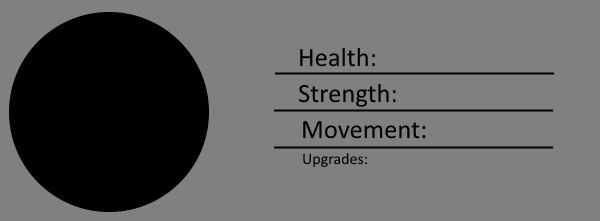
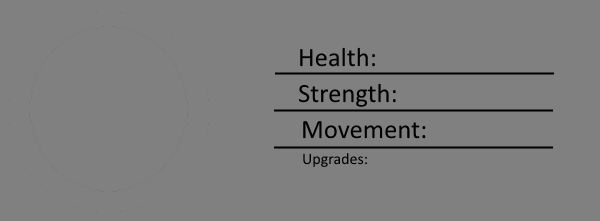
more UI stuff

Changed region(s): [[0.0, 0.0543, 0.36, 0.9774]]

diff --git a/FinalProjectTest/src/finalProject/UserInt.java b/FinalProjectTest/src/finalProject/UserInt.java
@@ -8,8 +8,6 @@ package finalProject;
 import java.awt.Color;
 import java.awt.Dimension;
 import java.awt.Font;
-import java.awt.Point;
-import java.awt.Scrollbar;
 import java.awt.event.ActionEvent;
 import java.awt.event.ActionListener;
 import java.io.FileNotFoundException;
@@ -20,12 +18,7 @@ import javax.swing.ImageIcon;
 import javax.swing.JButton;
 import javax.swing.JLabel;
 import javax.swing.JPanel;
-import javax.swing.JScrollBar;
 import javax.swing.JScrollPane;
-import static javax.swing.SwingConstants.CENTER;
-import javax.swing.border.LineBorder;
-import javax.swing.plaf.basic.BasicOptionPaneUI;
-import javax.swing.plaf.basic.BasicSplitPaneUI;
 
 /**
  *
@@ -50,7 +43,9 @@ class UserInt {
         static public JLabel unitHealth; 
         static public JLabel unitStrength; 
         static public JLabel unitMoves; 
+        static public JLabel unitName; 
         static public JButton unitMove;
+        static public JLabel unitIcon;
         
         static public ArrayList<JLabel> productionList = new ArrayList<JLabel>();
     
@@ -61,7 +56,7 @@ class UserInt {
 
             @Override
             public void actionPerformed(ActionEvent e) {
-                //TurnOrder.NextTurn();
+                TurnOrder.NextTurn();
                 
             }
         };
@@ -95,24 +90,10 @@ class UserInt {
 
         }
     public static void CityUI(City newCity){        
-        cityTest.setVisible(true);
-        cityLeft.setVisible(true);
-        cityFood.setVisible(true);
-        cityGold.setVisible(true);
-        cityProduction.setVisible(true);
-        cityScience.setVisible(true);
-        cityName.setVisible(true);
         city = newCity;
-        jsp.setVisible(true);
-        for (int i = 0; i < productionList.size(); i++) {
-                productionList.get(i).setVisible(true);
-            }
         
-        unitBack.setVisible(false);
-        unitHealth.setVisible(false);
-        unitStrength.setVisible(false);
-        unitMoves.setVisible(false);
-        unitMove.setVisible(false);
+        visableCityUI(true);
+        visableUnitUI(false);
         
         updateFood();
         updateGold();
@@ -124,47 +105,18 @@ class UserInt {
     public static void UnitUI(Unit newUnit){   
         unit = newUnit;
         
-        cityTest.setVisible(false);
-        cityLeft.setVisible(false);
-        cityFood.setVisible(false);
-        cityGold.setVisible(false);
-        cityProduction.setVisible(false);
-        cityScience.setVisible(false);
-        cityName.setVisible(false);
-        jsp.setVisible(false);
-        for (int i = 0; i < productionList.size(); i++) {
-                productionList.get(i).setVisible(false);
-            }
-        
-        
-        unitBack.setVisible(true);
-        unitHealth.setVisible(true);
-        unitStrength.setVisible(true);
-        unitMoves.setVisible(true);
-        unitMove.setVisible(true);
+        visableCityUI(false);        
+        visableUnitUI(true);
         
         updateHealth();
         updateStength();
         updateMoves();
+        updateIcon();
+        unitName.setText(unit.name);
     }
     public static void NormalUI(){        
-        cityTest.setVisible(false);
-        cityLeft.setVisible(false);
-        cityFood.setVisible(false);
-        cityGold.setVisible(false);
-        cityProduction.setVisible(false);
-        cityScience.setVisible(false);
-        cityName.setVisible(false);
-        jsp.setVisible(false);
-        for (int i = 0; i < productionList.size(); i++) {
-                productionList.get(i).setVisible(false);
-            }
-        
-        unitBack.setVisible(false);
-        unitHealth.setVisible(false);
-        unitStrength.setVisible(false);
-        unitMoves.setVisible(false);
-        unitMove.setVisible(false);
+        visableCityUI(false);
+        visableUnitUI(false);
         
     }
     
@@ -176,8 +128,9 @@ class UserInt {
     public static void updateHealth() {unitHealth.setText(unit.health+"");}
     public static void updateStength(){unitStrength.setText(unit.Damage+"");}
     public static void updateMoves(){unitMoves.setText(unit.movement+"");}
+    public static void updateIcon(){unitIcon.setIcon(unit.unitIcon);}
 
-    private void MakeCityUI(){
+    public void MakeCityUI(){
         
         Icon leftBack = new ImageIcon("src\\Images\\CityLeft.png");
         cityLeft = new JLabel(leftBack);
@@ -234,8 +187,7 @@ class UserInt {
         Visual.CityUI.add(cityName, 0);
         MakeProductionUI();
     }
-
-    private void MakeUnitUI(){
+    public void MakeUnitUI(){
         Icon unitBackround = new ImageIcon("src\\Images\\UnitBackround.png");
         unitBack = new JLabel(unitBackround);
         unitBack.setSize(600,220);
@@ -244,9 +196,16 @@ class UserInt {
         unitBack.setFocusable(false);
         Visual.UnitUI.add(unitBack);
         
+        unitIcon = new JLabel();
+        unitIcon.setSize(200,200);
+        unitIcon.setLocation(20, 500);
+        unitIcon.setVisible(false);
+        unitIcon.setFocusable(false);
+        Visual.UnitUI.add(unitIcon,0);
+        
         unitHealth = new JLabel();
         unitHealth.setSize(100, 20);
-        unitHealth.setLocation(450, 530);
+        unitHealth.setLocation(450, 540);
         unitHealth.setVisible(false);
         unitHealth.setFocusable(false);
         unitHealth.setFont(new Font(null, Font.PLAIN, 20));
@@ -254,7 +213,7 @@ class UserInt {
         
         unitStrength = new JLabel();
         unitStrength.setSize(100, 20);
-        unitStrength.setLocation(450, 570);
+        unitStrength.setLocation(450, 575);
         unitStrength.setVisible(false);
         unitStrength.setFocusable(false);
         unitStrength.setFont(new Font(null, Font.PLAIN, 20));
@@ -267,6 +226,15 @@ class UserInt {
         unitMoves.setFocusable(false);
         unitMoves.setFont(new Font(null, Font.PLAIN, 20));
         Visual.UnitUI.add(unitMoves,0);
+        
+        unitName = new JLabel();
+        unitName.setSize(390, 30);
+        unitName.setLocation(210, 500);
+        unitName.setVisible(false);
+        unitName.setFocusable(false);
+        unitName.setFont(new Font(null, Font.PLAIN, 30));
+        unitName.setHorizontalAlignment(javax.swing.SwingConstants.CENTER);
+        Visual.UnitUI.add(unitName,0);
         
         Icon imgMove = new ImageIcon("src\\Images\\unitMove.png");
         unitMove = new JButton(imgMove);
@@ -288,25 +256,48 @@ class UserInt {
         unitMove.setFocusable(false);
         Visual.UnitUI.add(unitMove);
     }
-
-    private static void MakeProductionUI() {
-        productionList.clear();
+    public void MakeProductionUI() {
         jsp.setVerticalScrollBarPolicy(JScrollPane.VERTICAL_SCROLLBAR_ALWAYS);
-        jsp.setSize(new Dimension(384, 550));
+        jsp.setSize(new Dimension(384, 500));
         jsp.setLocation(0, 200);
         jsp.setViewportView(jPanel);
         Visual.CityUI.add(jsp,0);
         jsp.setVisible(false);
         jPanel.setBackground(Color.BLACK);
         jPanel.setLayout(new BoxLayout(jPanel, BoxLayout.Y_AXIS));
-        for (int i = 0; i < city.cityBuildObjects.size(); i++) {
+        for (int i = 0; i < 100; i++) {
             Icon backroundImage = new ImageIcon("src\\Images\\ProductionBack.png");
             JLabel backround = new JLabel(backroundImage);
             backround.setPreferredSize(new Dimension(384, 150));
-            backround.setVisible(true);
+            backround.setVisible(false);
             jPanel.add(backround, 0);
             productionList.add(backround);
-            System.out.println("test");
         }
+    }
+    
+    public static void visableCityUI(boolean visable){
+        cityTest.setVisible(visable);
+        cityLeft.setVisible(visable);
+        cityFood.setVisible(visable);
+        cityGold.setVisible(visable);
+        cityProduction.setVisible(visable);
+        cityScience.setVisible(visable);
+        cityName.setVisible(visable);
+        jsp.setVisible(visable);
+        for (int i = 0; i < productionList.size(); i++) {
+            productionList.get(i).setVisible(false);
+        }
+        for (int i = 0; i < city.cityBuildObjects.size(); i++) {
+            productionList.get(i).setVisible(visable);
+        }
+    }
+    public static void visableUnitUI(boolean visable){
+        unitBack.setVisible(visable);
+        unitHealth.setVisible(visable);
+        unitStrength.setVisible(visable);
+        unitMoves.setVisible(visable);
+        unitMove.setVisible(visable);
+        unitName.setVisible(visable);
+        unitIcon.setVisible(visable);
     }
 }

diff --git a/FinalProjectTest/src/finalProject/Unit.java b/FinalProjectTest/src/finalProject/Unit.java
@@ -24,6 +24,8 @@ public class Unit extends JLabel{
     int type;
     int health;
     Icon Unit; 
+    Icon unitIcon; 
+    String name;
     public int Damage;
     
     Unit(int x, int y, int type, Container container, int owner) {
@@ -32,12 +34,15 @@ public class Unit extends JLabel{
         this.y = y;
         this.setSize(50, 50);
         this.setLocation(x*50, y*50);
+        this.name = "Warrior";
         Visual.LoadUnits();
         
         this.setVisible(true);
         if (type == 1){
-            Unit = new ImageIcon("src\\Images\\WarriorIcon.png");
+            this.unitIcon = new ImageIcon("src\\Images\\WarriorIcon.png");
             this.defaultMove = 2;
+            this.health = 50;
+            this.Damage = 10;
         }
         movement = defaultMove;
     }

diff --git a/FinalProjectTest/src/finalProject/City.java b/FinalProjectTest/src/finalProject/City.java
@@ -32,7 +32,7 @@ class City extends JLabel{
     City(int x, int y, int Owner) {
         this.x = x;
         this.y = y;
-        this.owner = TurnOrder.Player(Owner);
+        this.owner = FinalProject.Players.get(Owner);
         cityBuildObjects = new ArrayList<Integer>();
         if(Tile.getTileType(Map.grid[x][y]) != 2 && Tile.getTileType(Map.grid[x][y]) != 3){
             Icon tile = new ImageIcon("src\\Images\\CityTile1.png");
